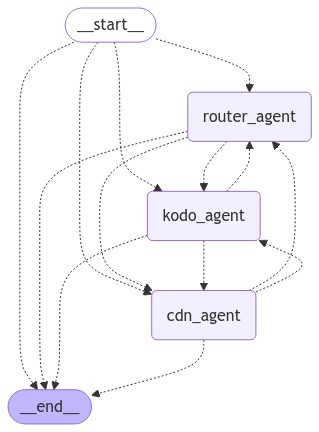
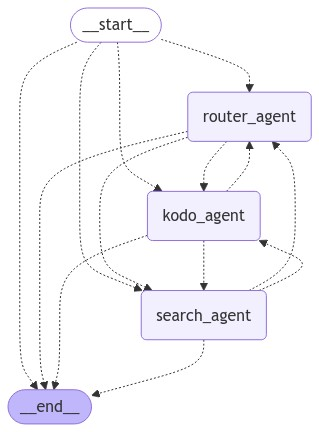
add flask to provide server, add test example and conversation context

diff --git a/swaph/swaph.py b/swaph/swaph.py
@@ -7,7 +7,7 @@ from langgraph.checkpoint.memory import MemorySaver
 from graph.AgentGraph import AgentGraph
 from config.prompt_class import Prompt
 from typing import List, Dict, Any
-
+from tool import ToolRegistry
 class Swaph:
     def __init__(self):
         self.agent_factory = AgentFactory()
@@ -15,38 +15,23 @@ class Swaph:
         self.memory = MemorySaver()
         self.config = {"configurable": {"thread_id": "1"}}
 
-    @tool
-    def handle_kodo_question(self):
-        """ 
-        处理kodo相关的问题
-        """
-        print(f"{Colors.OKBLUE}handle_kodo_question{Colors.ENDC}")
-        return "处理完成！"
-
-    @tool
-    def handle_cdn_question(self, question: str):
-        """ 
-        处理cdn相关的问题
-        """
-        print(f"{Colors.OKBLUE}handle_cdn_question{Colors.ENDC}", question)
-        return "处理完成！"
 
     def create_agents(self):
         router_agent = Agent(name="router_agent",
                              model="gpt-4o-mini",
-                             next_agents=["cdn_agent", "kodo_agent"],
+                             next_agents=["search_agent", "kodo_agent"],
                              instruction="你是路由专家，能根据用户的问题，将用户的问题转移到对应的 agent",
                              sop=Prompt.get_prompt(name="router"))
         kodo_agent = Agent(name="kodo_agent",
                            model="gpt-4o-mini",
-                           tools=[self.handle_kodo_question],
-                           instruction="你是kodo的专家，能处理kodo相关的问题，例如：如何上传文件到kodo，如何下载文件到kodo，如何删除文件到kodo，如何查询文件到kodo")
-        cdn_agent = Agent(name="cdn_agent",
+                           tools=[ToolRegistry.get_tool("download_file"),ToolRegistry.get_tool("upload_file")],
+                           instruction="你是kodo的专家，能处理kodo相关的问题，例如：如何上传文件到kodo，如何下载文件到kodo，如何删除文件到kodo，如何查询文件到kodo，如何添加文件到kodo")
+        search_agent = Agent(name="search_agent",
                           model="gpt-4o-mini",
-                          tools=[self.handle_cdn_question],
-                          instruction="你是cdn的专家，能处理cdn相关的问题，例如：如何配置cdn，如何查询cdn，如何删除cdn，如何添加cdn")
+                          tools=[ToolRegistry.get_tool("search_tool")],
+                          instruction="你是搜索引擎的专家，能处理搜索引擎相关的问题，例如：如何搜索，如何查询，如何删除，如何添加")
 
-        self.agent_factory.register_all([router_agent, cdn_agent, kodo_agent])
+        self.agent_factory.register_all([router_agent, search_agent, kodo_agent])
         self.agent_factory.initialize_all()
 
     def initialize_graph(self):
@@ -61,8 +46,9 @@ class Swaph:
             f.write(graph_image)
         print(f"图片已保存为 {filename}")
 
-    def invoke(self, question: str) -> Dict[str, Any]:
-        ans = self.graph.invoke({"question": question}, config=self.config)
+    def invoke(self, question: str, conversation_id: str) -> Dict[str, Any]:
+        config = {"configurable": {"thread_id": conversation_id}}
+        ans = self.graph.invoke({"question": question}, config=config)
         return ans
 
     def pretty_print_messages(self, messages: List[Any]):
@@ -80,12 +66,12 @@ class Swaph:
             question = input("请输入问题（输入'退出'结束）: ")
             if question.lower() == '退出':
                 break
-            ans = self.invoke(question)
+            ans = self.invoke(question, "1")
             self.pretty_print_messages(ans["messages"])
             print("next_agent: ", ans["next_agent"])
 
 # 使用示例
-if __name__ == "__main__":
-    swaph = Swaph()
-    swaph.run()
+# if __name__ == "__main__":
+#     swaph = Swaph()
+#     swaph.run()
 

diff --git a/test.py b/test.py
@@ -1,0 +1,31 @@
+import requests
+import json
+
+def test_swaph_server():
+    url = "http://localhost:5000/ask"
+    headers = {"Content-Type": "application/json"}
+
+    questions = [
+        ("世界上最长的河流是什么", "conv1"),
+        ("第三呢？", "conv1"),
+        ("第二呢？", "conv2")
+    ]
+
+    for question, conv_id in questions:
+        payload = json.dumps({"question": question, "conversation_id": conv_id})
+        response = requests.post(url, headers=headers, data=payload)
+        
+        if response.status_code == 200:
+            result = response.json()
+            print(f"问题: {question}")
+            print(f"对话ID: {conv_id}")
+            print(f"回答: {result['answer']}")
+            print(f"下一个代理: {result['current_agent']}")
+            print("-" * 50)
+        else:
+            print(f"请求失败: {response.status_code}")
+            print(response.text)
+            print("-" * 50)
+
+if __name__ == "__main__":
+    test_swaph_server()

diff --git a/app.py b/app.py
@@ -1,0 +1,30 @@
+from flask import Flask, request, jsonify
+from swaph.swaph import Swaph
+
+app = Flask(__name__)
+swaph = Swaph()
+swaph.setup()
+
+@app.route('/ask', methods=['POST'])
+def ask_question():
+    data = request.json
+    question = data.get('question')
+    conversation_id = data.get('conversation_id')
+    
+    if not question or not conversation_id:
+        return jsonify({"error": "No question or conversation_id provided"}), 400
+    
+    ans = swaph.invoke(question, conversation_id)
+    
+    # 提取 AI 的回答
+    ai_responses = ans["messages"][-1].content
+    
+    response = {
+        "answer": " ".join(ai_responses),
+        "current_agent": ans["next_agent"]
+    }
+    
+    return jsonify(response)
+
+if __name__ == '__main__':
+    app.run()
